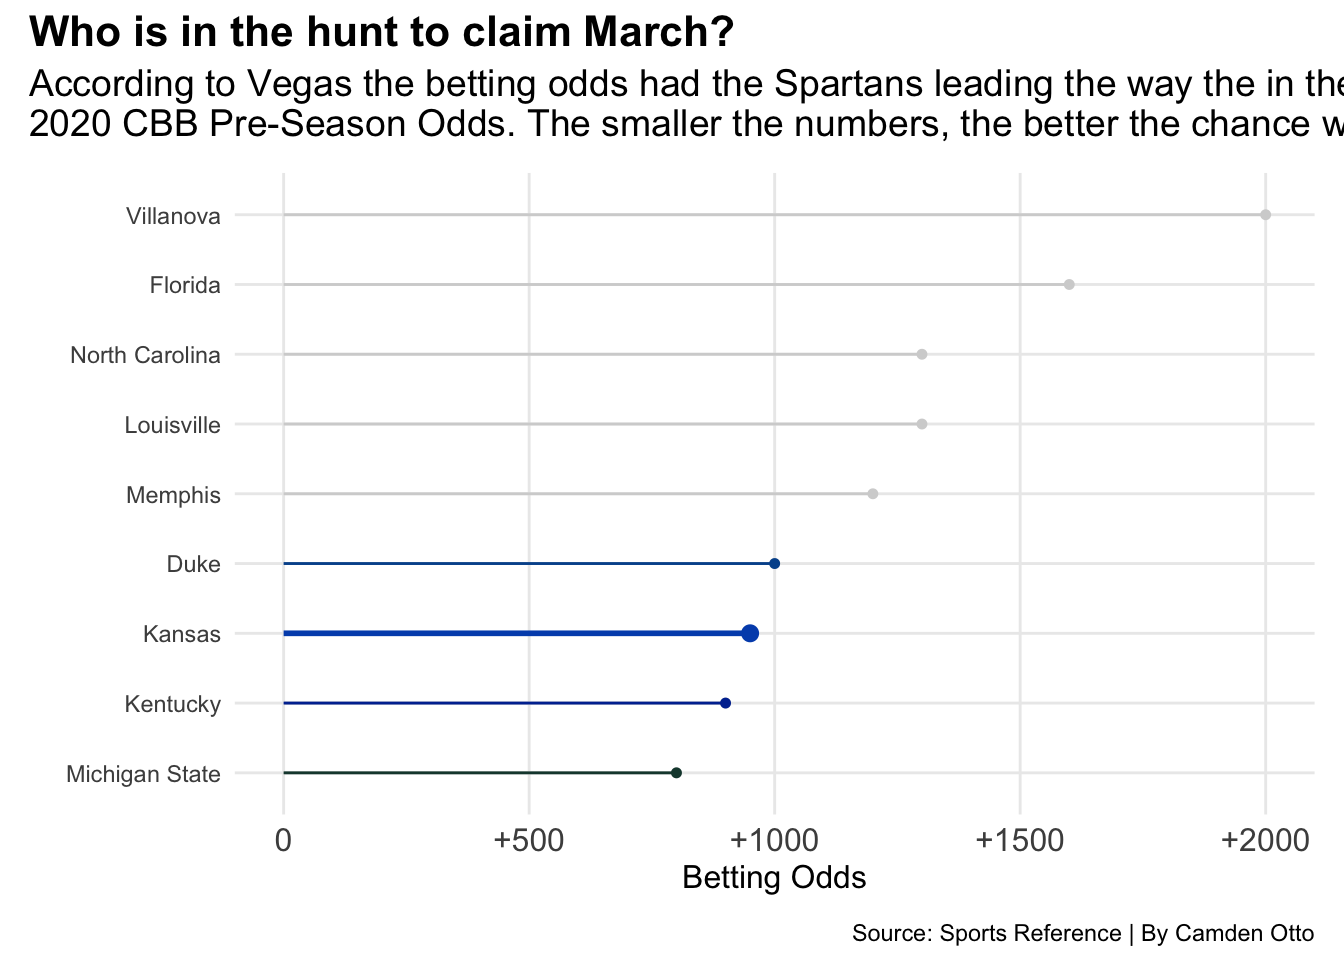
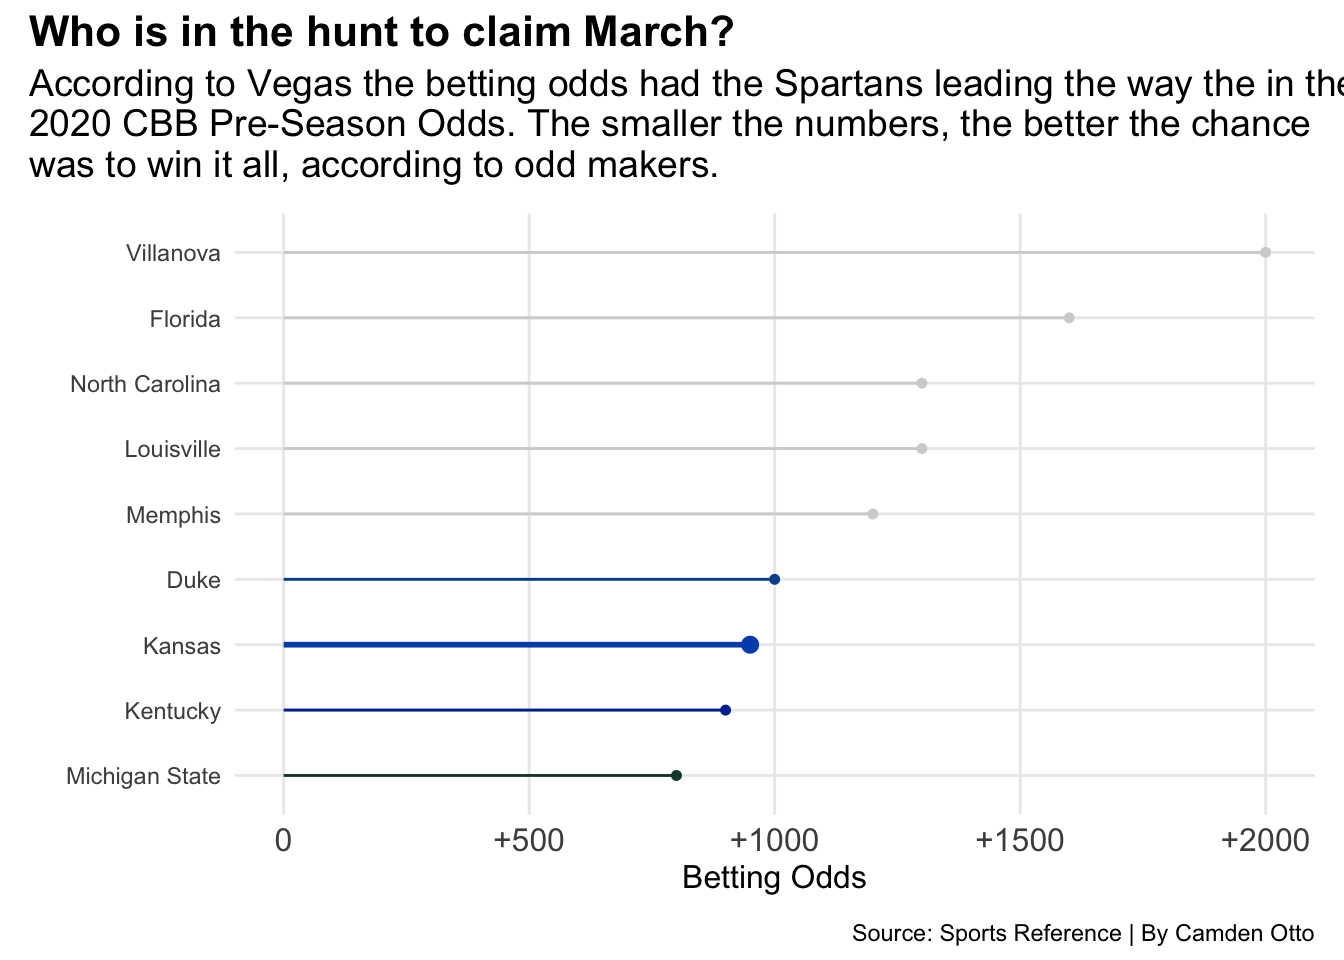
2.7

diff --git a/posts/covid-got-scared-of-the-jayhawks/index.html b/posts/covid-got-scared-of-the-jayhawks/index.html
@@ -245,7 +245,7 @@ pre > code.sourceCode > span > a:first-child::before { text-decoration: underlin
 <span id="cb1-41"><a href="#cb1-41" aria-hidden="true" tabindex="-1"></a>    ) <span class="sc">+</span></span>
 <span id="cb1-42"><a href="#cb1-42" aria-hidden="true" tabindex="-1"></a>    <span class="fu">plot_annotation</span>(</span>
 <span id="cb1-43"><a href="#cb1-43" aria-hidden="true" tabindex="-1"></a>    <span class="at">title =</span> <span class="st">"Who is in the hunt to claim March?"</span>,</span>
-<span id="cb1-44"><a href="#cb1-44" aria-hidden="true" tabindex="-1"></a>    <span class="at">subtitle =</span> <span class="st">"According to Vegas the betting odds had the Spartans leading the way the in the</span><span class="sc">\n</span><span class="st">2020 CBB Pre-Season Odds. The smaller the numbers, the better the chance was/nto win it all, according to odd makers."</span>,</span>
+<span id="cb1-44"><a href="#cb1-44" aria-hidden="true" tabindex="-1"></a>    <span class="at">subtitle =</span> <span class="st">"According to Vegas the betting odds had the Spartans leading the way the in the</span><span class="sc">\n</span><span class="st">2020 CBB Pre-Season Odds. The smaller the numbers, the better the chance</span><span class="sc">\n</span><span class="st">was to win it all, according to odd makers."</span>,</span>
 <span id="cb1-45"><a href="#cb1-45" aria-hidden="true" tabindex="-1"></a>    <span class="at">caption =</span> <span class="st">"Source: Sports Reference | By Camden Otto"</span></span>
 <span id="cb1-46"><a href="#cb1-46" aria-hidden="true" tabindex="-1"></a>  ) <span class="sc">&amp;</span> </span>
 <span id="cb1-47"><a href="#cb1-47" aria-hidden="true" tabindex="-1"></a>  <span class="fu">theme</span>(</span>

diff --git a/index.html b/index.html
@@ -209,7 +209,7 @@ window.Quarto = {
 
 <div class="quarto-listing quarto-listing-container-default" id="listing-listing">
 <div class="list quarto-listing-default">
-<div class="quarto-post image-right" data-index="0" data-categories="a2Fuc2FzJTJDYmFza2V0YmFsbCUyQ2NvbGxlZ2UlMkNjb3ZpZA==" data-listing-date-sort="1765087200000" data-listing-file-modified-sort="1764776862906" data-listing-date-modified-sort="NaN" data-listing-reading-time-sort="12" data-listing-word-count-sort="2394">
+<div class="quarto-post image-right" data-index="0" data-categories="a2Fuc2FzJTJDYmFza2V0YmFsbCUyQ2NvbGxlZ2UlMkNjb3ZpZA==" data-listing-date-sort="1765087200000" data-listing-file-modified-sort="1764777113163" data-listing-date-modified-sort="NaN" data-listing-reading-time-sort="12" data-listing-word-count-sort="2394">
 <div class="thumbnail"><a href="./posts/covid-got-scared-of-the-jayhawks/index.html" class="no-external">
 
 <img loading="lazy" src="./posts/covid-got-scared-of-the-jayhawks/image.png" class="thumbnail-image">
